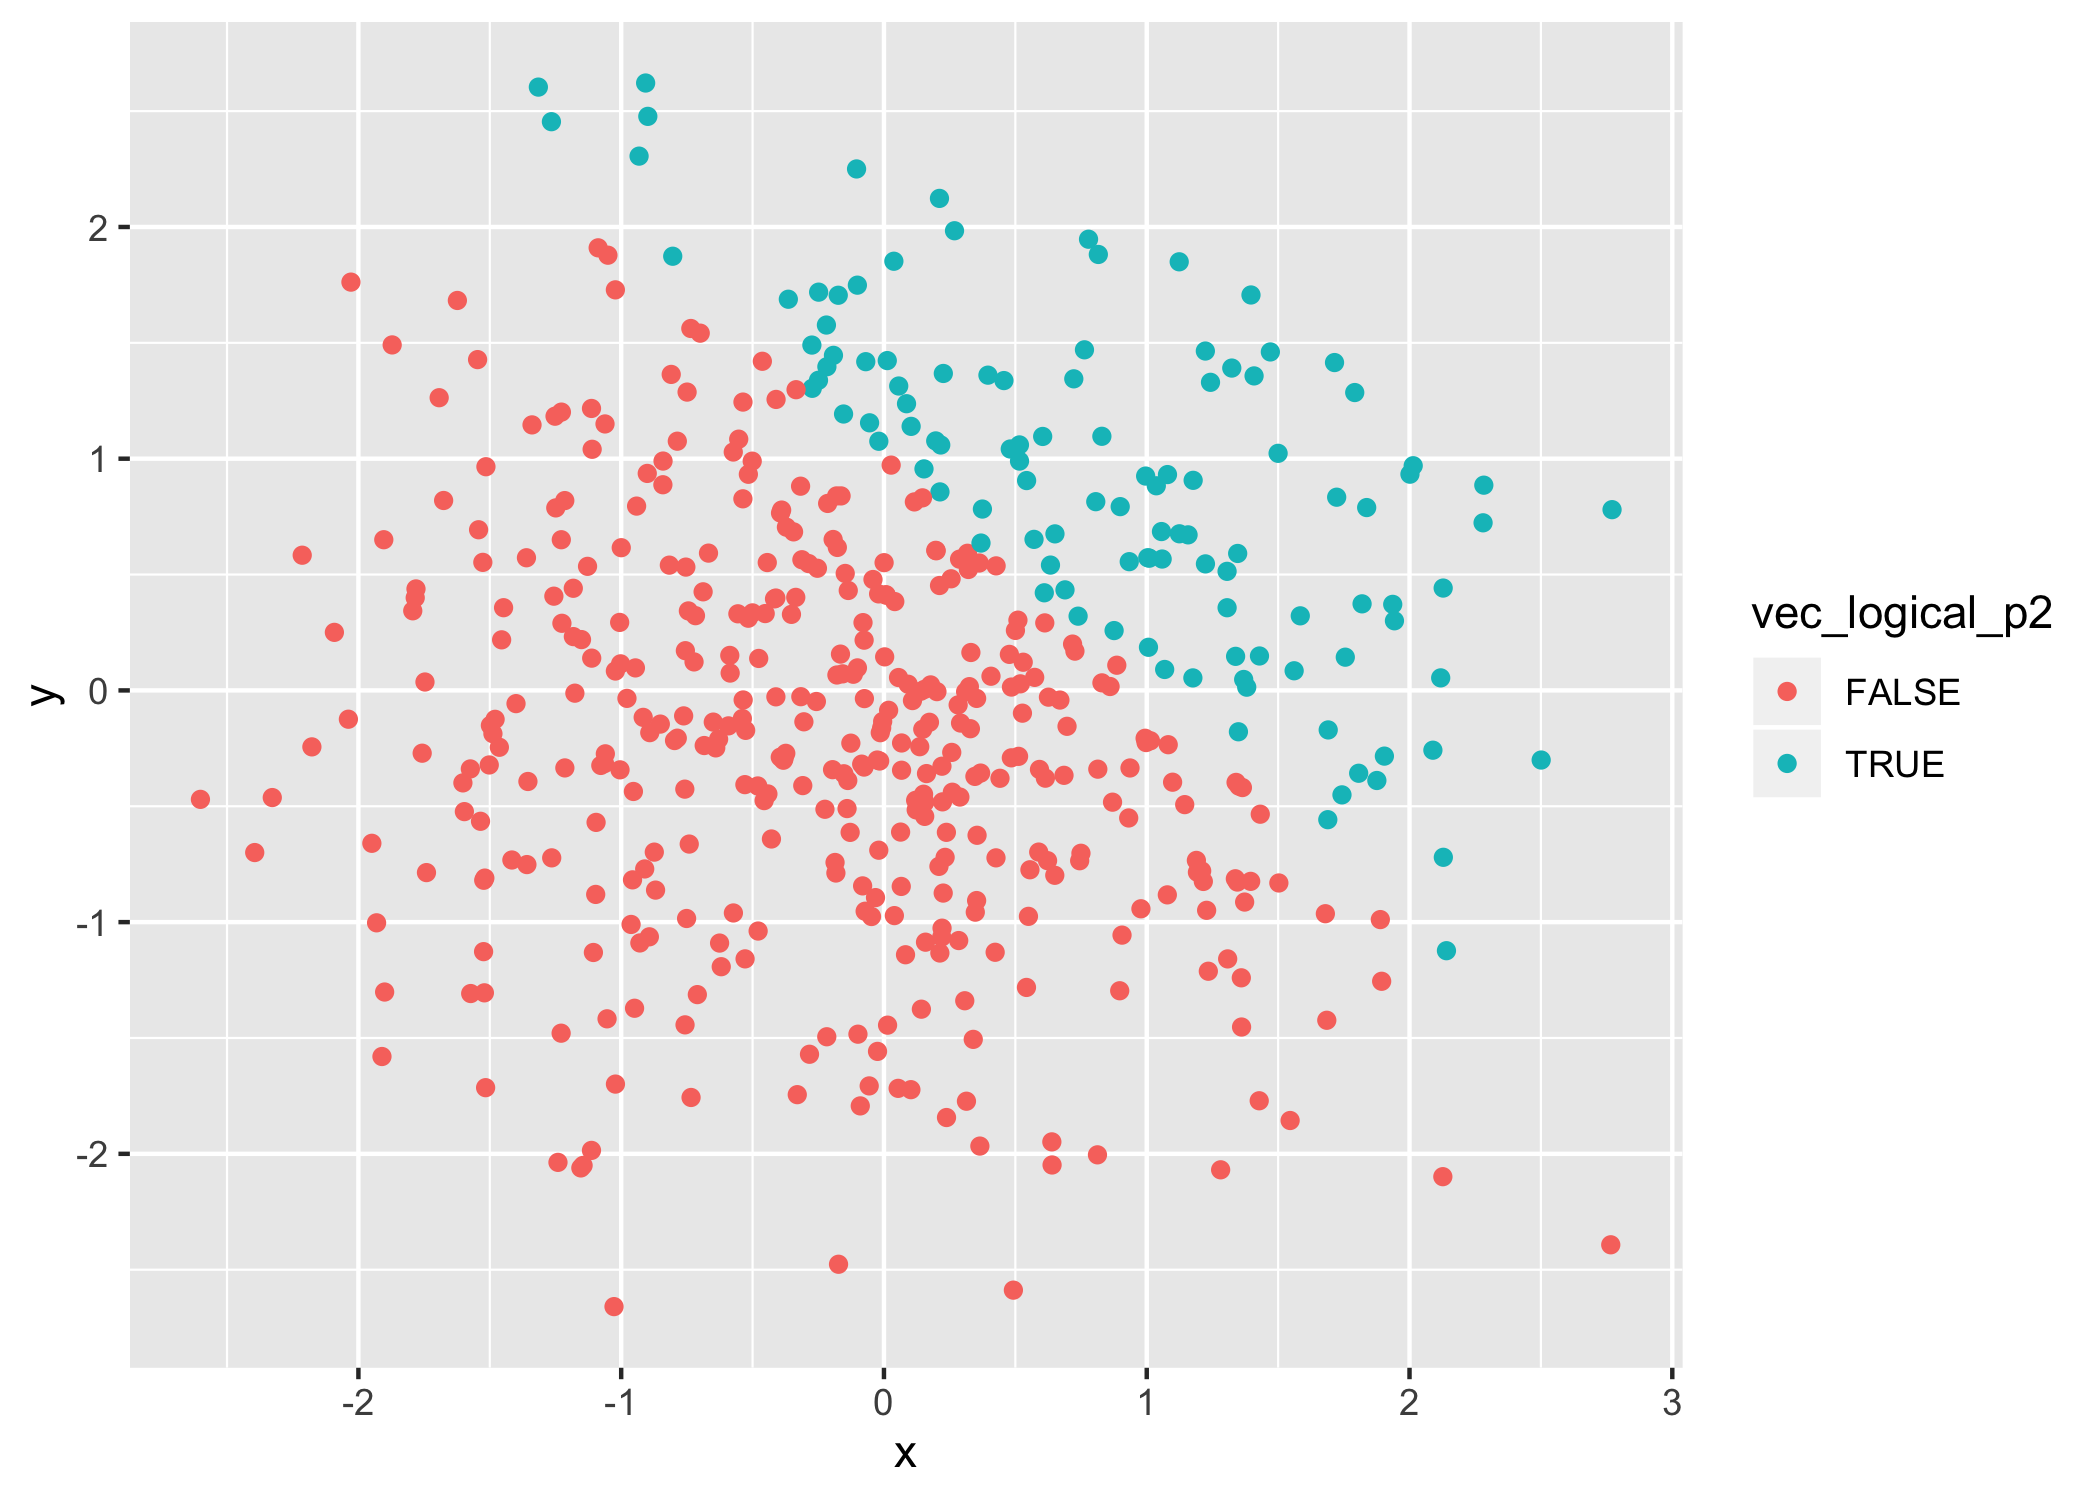
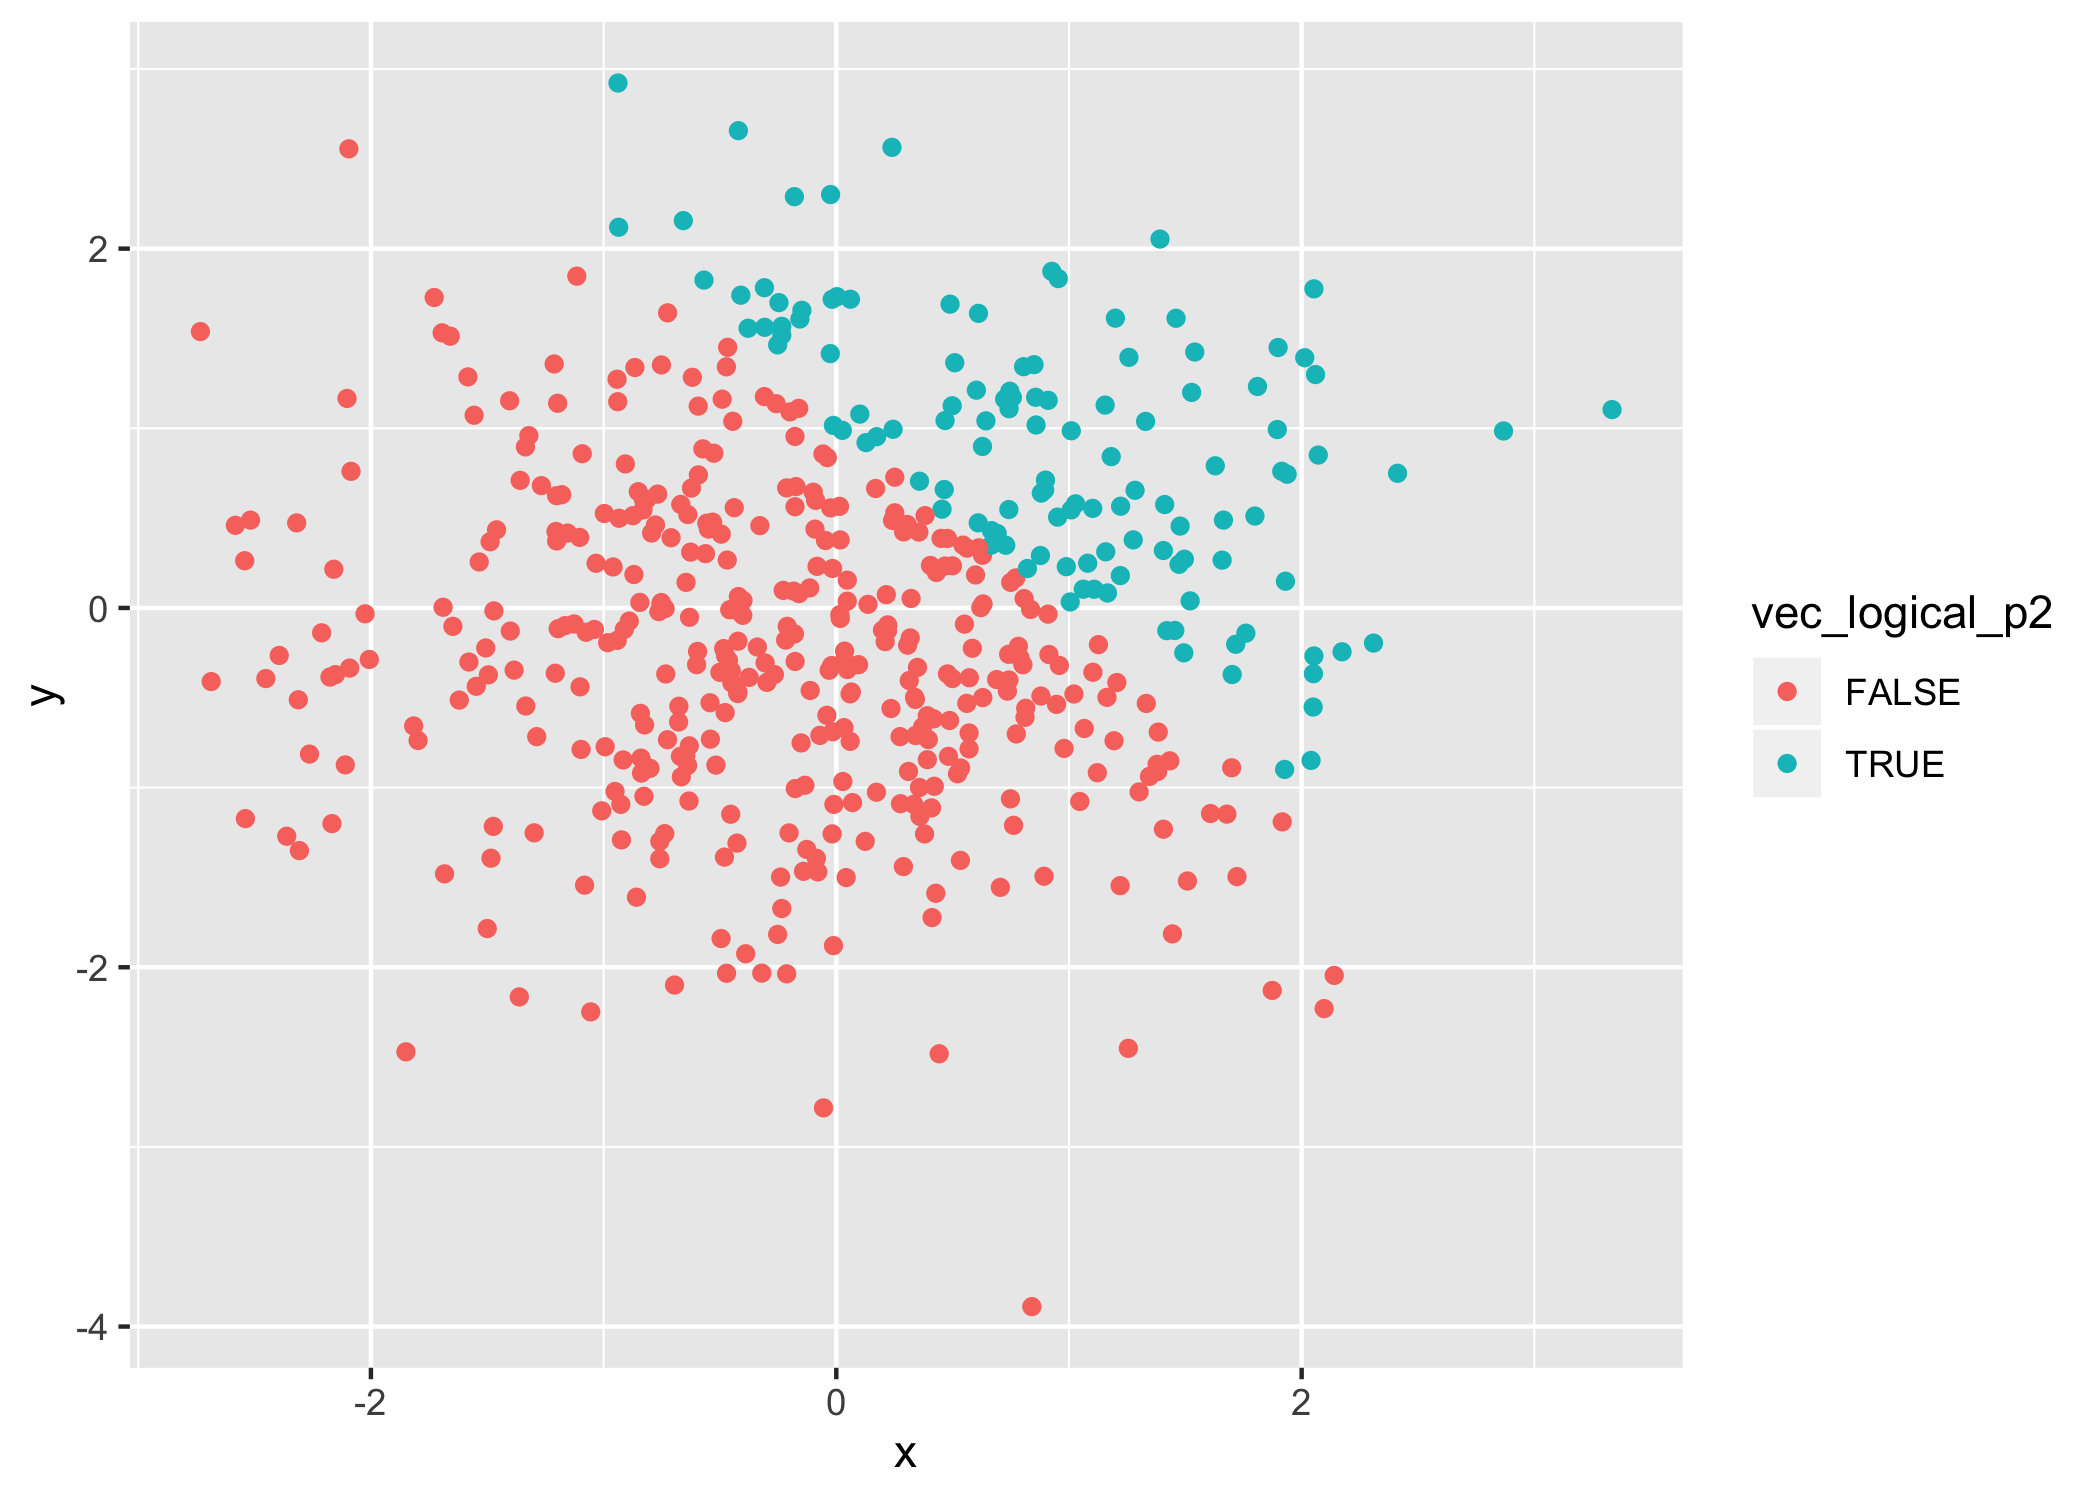
added 'include = FALSE' for ggplot code

diff --git a/p8105_hw1_jpb2210.md b/p8105_hw1_jpb2210.md
@@ -25,8 +25,8 @@ prob1_df <- tibble(
 
 ##### *Taking the mean value of each vector within our data frame:*
 
-The mean value of `vec_numeric` is -0.5900238.  
-The mean value of `vec_logical` is 0.125.  
+The mean value of `vec_numeric` is -0.309841.  
+The mean value of `vec_logical` is 0.375.  
 The mean value of `vec_character` is NA.  
 The mean value of `vec_factor` is NA.
 
@@ -58,23 +58,11 @@ prob2_df <- tibble(
 
 Let me tell you a few fun facts about my Problem \#2 data frame:  
 1\. The data frame has **500** rows and **5** columns.  
-2\. The variable ‘x’ has a mean value of **-0.009652**, a median value
-of **-0.0151971**, and a standard deviation of **1.0053008**.  
+2\. The variable ‘x’ has a mean value of **-0.0100412**, a median value
+of **-0.0189151**, and a standard deviation of **1.0704915**.  
 3\. The proportion of cases for which `x + y > 1` is XX.
 
 -----
-
-``` r
-p8105_hw1_plot1 <- ggplot(prob2_df) + geom_point(mapping = aes(x = x, y = y, color = vec_logical_p2))
-```
-
-``` r
-p8105_hw1_plot2 <- ggplot(prob2_df) + geom_point(mapping = aes(x = x, y = y, color = vec_numeric_p2))
-```
-
-``` r
-p8105_hw1_plot3 <- ggplot(prob2_df) + geom_point(mapping = aes(x = x, y = y, color = vec_factor_p2))
-```
 
 ``` r
 p8105_hw1_plot1
